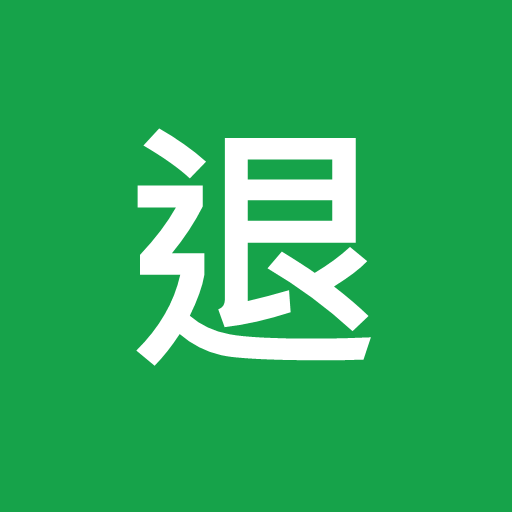
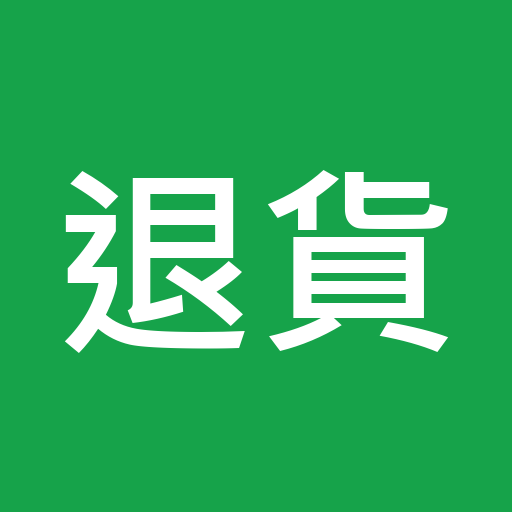
Add files via upload

Changed region(s): [[0.125, 0.25, 0.875, 0.7188]]

diff --git a/app.js b/app.js
@@ -1,7 +1,7 @@
-/* 退貨系統 PWA — 手機收集物流編號，帶到電腦匯入 ERP
+/* 退貨助手 PWA — 手機掃描物流編號，回報未取貨明細到 LINE 群組
    - 模式 A：即時掃二維碼（BarcodeDetector，後備 jsQR）
    - 模式 B：拍照／選照片「批次 OCR」——一張整張清單一次抓出所有 TW＋13 碼
-   - 掃到/辨識→存 IndexedDB（防重掃）；可複製清單 / 匯出 CSV / 清除
+   - 掃到/辨識→存 IndexedDB（防重掃）→「上傳至 LINE」經中繼讓機器人推到群組
 */
 const $ = (id) => document.getElementById(id);
 const RE_TW = /^TW[A-Za-z0-9]{13}$/;
@@ -9,6 +9,8 @@ const LS_RELAY = 'sr_relay', LS_KEY = 'sr_key';
 // 內建預設（免每台手機手動設定；可在 ⚙ 覆寫）
 const DEFAULT_RELAY = 'https://script.google.com/macros/s/AKfycbx7iFTntfKD26-dLDndTPqZMPNsBY5QISXcopbLk2knpHLxOb2Jcr4IhQFr3in3pUKiUA/exec';
 const DEFAULT_KEY = '1234';
+// 音效設定 localStorage 鍵
+const LS_SND_ON = 'sr_snd_on', LS_SND_VOL = 'sr_snd_vol', LS_SND_TYPE = 'sr_snd_type';
 
 let mode = 'A';
 let stream = null, scanning = false, lastHitAt = 0, bd = null;
@@ -60,15 +62,16 @@ async function addCodeLive(raw) {
 }
 
 /* ---------- 模式 A：即時鏡頭 ---------- */
-async function startCamera() {
+async function startCamera(auto) {
   try {
-    actx = actx || new (window.AudioContext || window.webkitAudioContext)();
-    if (actx.state === 'suspended') actx.resume();
+    try { actx = actx || new (window.AudioContext || window.webkitAudioContext)(); if (actx.state === 'suspended') actx.resume(); } catch (e) {}
     stream = await navigator.mediaDevices.getUserMedia({ video: { facingMode: { ideal: 'environment' }, width: { ideal: 1280 }, height: { ideal: 720 } }, audio: false });
     video.srcObject = stream; await video.play();
     $('start-cam').hidden = true;
     scanning = true; loop();
   } catch (e) {
+    // 自動嘗試失敗（iOS 需手勢）→ 安靜顯示按鈕，不跳錯誤
+    if (auto) { $('start-cam').hidden = false; return; }
     dialog('無法開啟鏡頭：' + (e && e.message ? e.message : e) + '\n請確認已允許相機權限，且使用 HTTPS 開啟。', [{ label: '知道了' }]);
   }
 }
@@ -163,76 +166,135 @@ async function render() {
     row.innerHTML = `<span class="idx">#${i + 1}</span><span class="code">${r.code}</span><span class="time">${timeShort(r.ts)}</span><span class="mode-tag">${ml}</span><button class="del" data-code="${r.code}" aria-label="刪除">✕</button>`;
     list.appendChild(row);
   });
-  list.querySelectorAll('.del').forEach(b => b.onclick = async () => { await dbDel(b.dataset.code); seen.delete(b.dataset.code); render(); });
+  list.querySelectorAll('.del').forEach(b => b.onclick = () => {
+    const code = b.dataset.code;
+    dialog(`確定刪除這筆？\n${code}`, [
+      { label: '刪除', danger: true, onClick: async () => { await dbDel(code); seen.delete(code); render(); } },
+      { label: '取消' }
+    ]);
+  });
   list.scrollTop = list.scrollHeight;
   $('copy-list').disabled = all.length === 0;
-  $('export-csv').disabled = all.length === 0;
   $('clear-all').disabled = all.length === 0;
 }
 function timeShort(ts) { return (ts || '').split(' ')[1] || ts; }
 
-/* ---------- 複製 / 匯出 / 清除 ---------- */
+/* ---------- LINE 回報 / 清除 ---------- */
 /* 組出 LINE 回報文字 */
 function composeReport(all) {
   const a = all.filter(r => r.mode === 'A').map(r => r.code);
   const b = all.filter(r => r.mode === 'B').map(r => r.code);
-  let t = `未取貨明細 ${nowStr()}\n\n-----\n\n`;
-  t += `QR掃碼 (一般) 合計${a.length}筆\n` + (a.length ? a.join('\n') : '（無）') + '\n\n';
-  t += `文字掃碼 (無包裝) 合計${b.length}筆\n` + (b.length ? b.join('\n') : '（無）');
+  let t = `蝦皮助手：未取貨明細通知\n\n`;
+  t += `查詢時間：${nowStr()}\n`;
+  t += `處理總數：${all.length} 筆\n\n`;
+  t += `QR掃碼（一般）合計 ${a.length} 筆\n` + (a.length ? a.join('\n') : '（無）') + `\n\n`;
+  t += `文字掃碼（無包裝）合計 ${b.length} 筆\n` + (b.length ? b.join('\n') : '（無）');
   return t;
 }
-/* 上傳至 LINE：一律透過中繼讓「機器人」推到群組（不會用個人帳號分享） */
+/* 上傳至 LINE：先確認，再透過中繼讓「機器人」推到群組 */
 async function uploadToLine() {
   const all = (await dbAll()).sort((x, y) => (x.ts < y.ts ? -1 : 1));
   if (!all.length) { dialog('沒有資料可上傳。', [{ label: '知道了' }]); return; }
+  dialog(`確定上傳 ${all.length} 筆到 LINE 群組？`, [
+    { label: '上傳', onClick: () => sendToLine(all) },
+    { label: '取消' }
+  ]);
+}
+async function sendToLine(all) {
   const text = composeReport(all);
   const relay = (localStorage.getItem(LS_RELAY) || DEFAULT_RELAY).trim();
   const key = localStorage.getItem(LS_KEY) || DEFAULT_KEY;
   if (!relay) { dialog('尚未設定 LINE 中繼網址（右上 ⚙）。', [{ label: '知道了' }]); return; }
+  let ok = false;
   try {
     const r = await fetch(relay, { method: 'POST', headers: { 'Content-Type': 'text/plain;charset=utf-8' }, body: JSON.stringify({ key, text }) });
     const t = await r.text().catch(() => '');
-    if (/line 200/.test(t)) { toast('已送出 LINE 回報'); beep(true); return; }
-    if (/bad key/.test(t)) { dialog('通關碼不符，請到 ⚙ 確認。', [{ label: '知道了' }]); return; }
-    if (/line \d/.test(t)) { dialog('LINE 拒絕推送（' + t + '）。\n多半是 token 失效或群組設定問題。', [{ label: '知道了' }]); return; }
-    toast('已送出（請到群組確認是否收到）'); beep(true);
+    if (/line 200/.test(t)) ok = true;
+    else if (/bad key/.test(t)) { dialog('通關碼不符，請到 ⚙ 確認。', [{ label: '知道了' }]); return; }
+    else if (/line \d/.test(t)) { dialog('LINE 拒絕推送（' + t + '）。\n多半是 token 失效或群組設定問題。', [{ label: '知道了' }]); return; }
+    else ok = true; // 讀不到內容，多半已送出
   } catch (e) {
-    dialog('送出失敗：' + (e && e.message ? e.message : e) + '\n請確認網路，或到 ⚙ 檢查中繼網址。', [{ label: '知道了' }]);
+    dialog('送出失敗：' + (e && e.message ? e.message : e) + '\n請確認網路，或到 ⚙ 檢查中繼網址。', [{ label: '知道了' }]); return;
   }
+  if (ok) { toast('已送出 LINE 回報'); beep(true); askClearAfterUpload(); }
 }
-async function exportCSV() {
-  const all = (await dbAll()).sort((a, b) => (a.ts < b.ts ? -1 : 1));
-  if (!all.length) { dialog('沒有資料可匯出。', [{ label: '知道了' }]); return; }
-  const rows = [['序號', '物流編號', '模式', '時間']]; all.forEach((r, i) => rows.push([i + 1, r.code, '模式' + r.mode, r.ts]));
-  const csv = '' + rows.map(r => r.map(c => `"${String(c).replace(/"/g, '""')}"`).join(',')).join('\r\n');
-  const blob = new Blob([csv], { type: 'text/csv;charset=utf-8' }); const url = URL.createObjectURL(blob);
-  const a = document.createElement('a'); a.href = url; a.download = `退貨清單_${nowStr().replace(/[: ]/g, '-')}.csv`;
-  document.body.appendChild(a); a.click(); a.remove(); setTimeout(() => URL.revokeObjectURL(url), 1000);
-  toast(`已匯出 ${all.length} 筆 CSV`);
+function askClearAfterUpload() {
+  dialog('已送出。是否清空目前清單，準備掃下一批？', [
+    { label: '清空', danger: true, onClick: async () => { await dbClear(); seen.clear(); render(); } },
+    { label: '取消' }
+  ]);
 }
 async function clearAll() {
   const all = await dbAll(); if (!all.length) return;
-  dialog(`確定清除全部 ${all.length} 筆？（無法復原）`, [{ label: '取消' }, { label: '清除全部', danger: true, onClick: async () => { await dbClear(); seen.clear(); render(); } }]);
+  dialog(`確定清除全部 ${all.length} 筆？（無法復原）`, [{ label: '清除', danger: true, onClick: async () => { await dbClear(); seen.clear(); render(); } }, { label: '取消' }]);
 }
 
 /* ---------- 小工具 ---------- */
 let toastT = null;
 function toast(msg, warn) { const t = $('toast'); t.textContent = msg; t.classList.toggle('warn', !!warn); t.classList.add('show'); clearTimeout(toastT); toastT = setTimeout(() => t.classList.remove('show'), 1600); }
+function sndCfg() {
+  return {
+    on: localStorage.getItem(LS_SND_ON) !== '0',                       // 預設開
+    vol: (parseInt(localStorage.getItem(LS_SND_VOL) || '60', 10)) / 100, // 預設 0.6
+    type: localStorage.getItem(LS_SND_TYPE) || 'beep'
+  };
+}
+function ensureActx() { try { if (!actx) actx = new (window.AudioContext || window.webkitAudioContext)(); if (actx.state === 'suspended') actx.resume(); } catch (e) {} }
+function tone(freq, dur, wave, vol, delay) {
+  if (!actx) return;
+  const o = actx.createOscillator(), g = actx.createGain();
+  o.type = wave || 'square'; o.frequency.value = freq; o.connect(g); g.connect(actx.destination);
+  const t0 = actx.currentTime + (delay || 0);
+  g.gain.setValueAtTime(0.0001, t0);
+  g.gain.exponentialRampToValueAtTime(Math.max(0.0001, vol), t0 + 0.012);
+  g.gain.exponentialRampToValueAtTime(0.0001, t0 + dur);
+  o.start(t0); o.stop(t0 + dur + 0.03);
+}
+// 成功音（依選擇的種類）
+function playSuccess(type, v) {
+  ensureActx(); if (!actx) return;
+  switch (type) {
+    case 'ding': tone(1320, 0.3, 'sine', v, 0); break;
+    case 'double': tone(1000, 0.12, 'square', v, 0); tone(1000, 0.12, 'square', v, 0.16); break;
+    case 'low': tone(620, 0.22, 'square', v, 0); break;
+    case 'chime': tone(880, 0.14, 'triangle', v, 0); tone(1320, 0.22, 'triangle', v, 0.14); break;
+    default: tone(1000, 0.18, 'square', v, 0); // beep
+  }
+}
 function beep(ok) {
-  try {
-    if (!actx) actx = new (window.AudioContext || window.webkitAudioContext)();
-    if (actx.state === 'suspended') actx.resume();
-    const o = actx.createOscillator(), g = actx.createGain(); o.type = 'square'; o.frequency.value = ok ? 1000 : 300;
-    g.gain.value = 0.0001; o.connect(g); g.connect(actx.destination); const t0 = actx.currentTime;
-    g.gain.exponentialRampToValueAtTime(0.6, t0 + 0.01); g.gain.exponentialRampToValueAtTime(0.0001, t0 + (ok ? 0.18 : 0.32));
-    o.start(t0); o.stop(t0 + (ok ? 0.2 : 0.34));
-  } catch (e) {}
+  const s = sndCfg();
+  if (s.on) {
+    ensureActx();
+    if (actx) {
+      if (ok) playSuccess(s.type, s.vol);
+      else { tone(320, 0.16, 'square', s.vol, 0); tone(250, 0.18, 'square', s.vol, 0.17); } // 錯誤：低音雙嗶
+    }
+  }
   try { navigator.vibrate && navigator.vibrate(ok ? 60 : [40, 40, 40]); } catch (e) {}
 }
 function nowStr() { const d = new Date(), p = (n) => String(n).padStart(2, '0'); return `${d.getFullYear()}-${p(d.getMonth() + 1)}-${p(d.getDate())} ${p(d.getHours())}:${p(d.getMinutes())}:${p(d.getSeconds())}`; }
-function openSettings() { $('relay-url').value = localStorage.getItem(LS_RELAY) || DEFAULT_RELAY; $('relay-key').value = localStorage.getItem(LS_KEY) || DEFAULT_KEY; $('settings').hidden = false; }
+
+/* 音效設定視窗 */
+function openSettings() {
+  const s = sndCfg();
+  $('snd-type').value = s.type;
+  $('snd-on').checked = s.on;
+  $('snd-vol').value = Math.round(s.vol * 100);
+  $('snd-vol-v').textContent = Math.round(s.vol * 100);
+  $('settings').hidden = false;
+}
 function closeSettings() { $('settings').hidden = true; }
-function saveSettings() { localStorage.setItem(LS_RELAY, $('relay-url').value.trim()); localStorage.setItem(LS_KEY, $('relay-key').value.trim()); closeSettings(); toast('設定已儲存'); }
+function saveSettings() {
+  localStorage.setItem(LS_SND_TYPE, $('snd-type').value);
+  localStorage.setItem(LS_SND_ON, $('snd-on').checked ? '1' : '0');
+  localStorage.setItem(LS_SND_VOL, String(parseInt($('snd-vol').value, 10)));
+  closeSettings(); toast('音效設定已儲存');
+}
+function testSound() {
+  if (!$('snd-on').checked) { toast('音效目前為關閉'); return; }
+  ensureActx();
+  playSuccess($('snd-type').value, parseInt($('snd-vol').value, 10) / 100);
+}
 function dialog(text, buttons) {
   const box = $('dialog'); $('dialog-text').textContent = text; const foot = $('dialog-foot'); foot.innerHTML = '';
   buttons.forEach(b => { const el = document.createElement('button'); el.className = 'btn ' + (b.danger ? 'up' : b.onClick ? 'save' : 'cancel'); if (b.danger) el.style.background = 'var(--red)'; el.textContent = b.label; el.onclick = () => { box.hidden = true; if (b.onClick) b.onClick(); }; foot.appendChild(el); });
@@ -246,18 +308,22 @@ async function init() {
   if ('BarcodeDetector' in window) { try { bd = new BarcodeDetector({ formats: ['qr_code'] }); } catch (e) { bd = null; } }
   setMode('A'); render();
 
-  $('start-cam').onclick = startCamera;
+  $('start-cam').onclick = () => startCamera(false);
   $('fab').onclick = () => setMode(mode === 'A' ? 'B' : 'A');
   $('batch-btn').onclick = () => $('photo-input').click();
   $('photo-input').onchange = (e) => { const f = e.target.files && e.target.files[0]; e.target.value = ''; processPhoto(f); };
   $('copy-list').onclick = uploadToLine;
-  $('export-csv').onclick = exportCSV;
   $('clear-all').onclick = clearAll;
   $('settings-btn').onclick = openSettings;
   $('settings-close').onclick = closeSettings;
   $('settings-cancel').onclick = closeSettings;
   $('settings-save').onclick = saveSettings;
+  $('snd-test').onclick = testSound;
+  $('snd-vol').oninput = function () { $('snd-vol-v').textContent = this.value; };
 
   if ('serviceWorker' in navigator) navigator.serviceWorker.register('sw.js').catch(() => {});
+
+  // 一進來自動嘗試開鏡頭（電腦/Android 會直接開；iPhone 需手勢時會安靜顯示按鈕）
+  startCamera(true);
 }
 init();

diff --git a/index.html b/index.html
@@ -5,16 +5,16 @@
   <meta name="viewport" content="width=device-width, initial-scale=1, maximum-scale=1, user-scalable=no, viewport-fit=cover">
   <meta name="apple-mobile-web-app-capable" content="yes">
   <meta name="apple-mobile-web-app-status-bar-style" content="black-translucent">
-  <meta name="apple-mobile-web-app-title" content="退貨系統">
+  <meta name="apple-mobile-web-app-title" content="退貨助手">
   <meta name="theme-color" content="#16a34a">
   <link rel="manifest" href="manifest.webmanifest">
   <link rel="apple-touch-icon" href="icon-192.png">
   <link rel="stylesheet" href="style.css">
-  <title>退貨系統</title>
+  <title>退貨助手</title>
 </head>
 <body>
   <header class="top">
-    <span class="top-title">↩ 退貨系統</span>
+    <span class="top-title">↩ 退貨助手</span>
     <span class="hdr-prog" id="hdr-count">已掃 0</span>
     <button id="settings-btn" class="gear" type="button" aria-label="設定">⚙</button>
   </header>
@@ -58,25 +58,31 @@
     </div>
     <div class="list-tools">
       <button id="copy-list" class="tool-btn primary" type="button">上傳至 LINE</button>
-      <button id="export-csv" class="tool-btn" type="button">儲存</button>
       <button id="clear-all" class="tool-btn danger" type="button">清除全部</button>
     </div>
     <div class="list" id="list"></div>
     <p class="empty" id="empty">尚無資料，請開啟鏡頭開始掃描。</p>
   </main>
 
-  <!-- LINE 上傳設定 -->
+  <!-- 音效設定 -->
   <div class="modal" id="settings" hidden>
     <div class="modal-box">
-      <div class="modal-head">LINE 上傳設定 <button id="settings-close" class="x" type="button" aria-label="關閉">✕</button></div>
-      <label class="lab">LINE 中繼網址（Apps Script /exec）</label>
-      <input id="relay-url" type="url" inputmode="url" placeholder="https://script.google.com/macros/s/..../exec">
-      <label class="lab" style="margin-top:12px;">通關碼（與中繼程式裡的一致）</label>
-      <input id="relay-key" type="text" placeholder="自訂通關碼">
-      <p class="hint">設定後，「上傳至 LINE」會透過你的機器人自動推送回報。留空則改用手機系統分享。</p>
+      <div class="modal-head">音效設定 <button id="settings-close" class="x" type="button" aria-label="關閉">✕</button></div>
+      <label class="lab">提示音效</label>
+      <select id="snd-type" class="sel">
+        <option value="beep">經典嗶</option>
+        <option value="ding">清脆叮</option>
+        <option value="double">雙嗶</option>
+        <option value="low">低音嘟</option>
+        <option value="chime">上升鈴</option>
+      </select>
+      <label class="lab chk" style="margin-top:14px;"><input type="checkbox" id="snd-on"> 開啟掃描提示音</label>
+      <label class="lab" style="margin-top:14px;">音量：<b id="snd-vol-v">60</b></label>
+      <input type="range" id="snd-vol" min="0" max="100" step="5">
       <div class="modal-foot">
-        <button id="settings-cancel" class="btn cancel" type="button">關閉</button>
-        <button id="settings-save" class="btn save" type="button">儲存設定</button>
+        <button id="snd-test" class="btn" style="background:#475569" type="button">試聽</button>
+        <button id="settings-cancel" class="btn cancel" type="button">取消</button>
+        <button id="settings-save" class="btn save" type="button">儲存</button>
       </div>
     </div>
   </div>

diff --git a/style.css b/style.css
@@ -52,7 +52,6 @@ body {
   background: rgba(0,0,0,.6); color: #fff; font-weight: 800; font-size: 14px;
   padding: 5px 14px; border-radius: 999px;
 }
-.counter.full { background: rgba(22,163,74,.95); }
 
 /* 黃框遮罩層 */
 .overlay {
@@ -166,23 +165,11 @@ body {
 }
 .row .idx { flex: 0 0 auto; font-weight: 800; color: #94a3b8; font-size: 13px; min-width: 30px; }
 .row .time { flex: 0 0 auto; font-size: 12px; color: #64748b; }
-.row.done { background: #f0fdf4; }
-.row.bad { background: #fef2f2; }
-.row .badge { font-size: 11px; font-weight: 800; padding: 2px 8px; border-radius: 999px; flex: 0 0 auto; }
-.badge.pending { background: #fef3c7; color: #b45309; }
-.badge.done { background: #dcfce7; color: #15803d; }
-.badge.bad { background: #fee2e2; color: #b91c1c; }
 .row .code { flex: 1 1 auto; font-family: ui-monospace, Menlo, Consolas, monospace; font-weight: 700; font-size: 15px; color: var(--ink); word-break: break-all; }
 .row .mode-tag { font-size: 11px; color: #64748b; flex: 0 0 auto; }
 .row .del { background: none; border: none; color: var(--red); font-size: 18px; cursor: pointer; flex: 0 0 auto; padding: 0 4px; }
 
-/* 底部按鈕 */
-.foot {
-  flex: 0 0 auto;
-  display: flex; gap: 8px;
-  padding: 10px 12px max(10px, env(safe-area-inset-bottom));
-  background: #fff; border-top: 1px solid var(--line);
-}
+/* 彈窗按鈕 */
 .btn { flex: 1; border: none; border-radius: 10px; padding: 14px 0; font-size: 16px; font-weight: 800; cursor: pointer; color: #fff; }
 .btn:active { filter: brightness(.92); }
 .btn.cancel { background: #64748b; }
@@ -196,9 +183,10 @@ body {
 .modal-head { font-weight: 800; font-size: 16px; display: flex; justify-content: space-between; align-items: center; margin-bottom: 12px; }
 .x { background: none; border: none; font-size: 18px; cursor: pointer; color: #64748b; }
 .lab { font-weight: 700; font-size: 13px; display: block; margin-bottom: 6px; }
-#relay-url, #relay-key { width: 100%; padding: 10px; border: 1px solid var(--line); border-radius: 8px; font-size: 15px; box-sizing: border-box; }
-#import-file { width: 100%; font-size: 14px; }
-#import-text { width: 100%; height: 90px; padding: 10px; border: 1px solid var(--line); border-radius: 8px; font: 13px/1.4 ui-monospace, monospace; resize: vertical; box-sizing: border-box; }
 .hint { font-size: 12px; color: #64748b; line-height: 1.5; }
+.sel { width: 100%; padding: 10px; border: 1px solid var(--line); border-radius: 8px; font-size: 15px; background: #fff; }
+#snd-vol { width: 100%; }
+.lab.chk { display: flex; align-items: center; gap: 8px; font-weight: 700; }
+.lab.chk input { width: 20px; height: 20px; }
 .dialog-text { font-size: 15px; color: var(--ink); line-height: 1.6; padding: 8px 4px 4px; text-align: center; }
 .modal-foot { display: flex; gap: 10px; margin-top: 14px; }

diff --git a/sw.js b/sw.js
@@ -1,5 +1,5 @@
 // service worker：快取靜態檔，讓「加到主畫面」後可離線開啟
-const CACHE = 'scan-return-v12';
+const CACHE = 'scan-return-v18';
 const ASSETS = ['./', './index.html', './app.js', './style.css', './manifest.webmanifest', './icon-192.png', './icon-512.png'];
 
 self.addEventListener('install', (e) => {

diff --git a/README.md b/README.md
@@ -1,4 +1,4 @@
-# 退貨系統（iPhone PWA 網頁 App）
+# 退貨助手（iPhone PWA 網頁 App）
 
 手機鏡頭掃描物流編號 → 本地存檔（IndexedDB）→ 帶到電腦匯入 ERP。
 iPhone 用 Safari 開網址後「**加入主畫面**」，就變成一個 icon、點下去全螢幕像 App。純收集，不做核對。